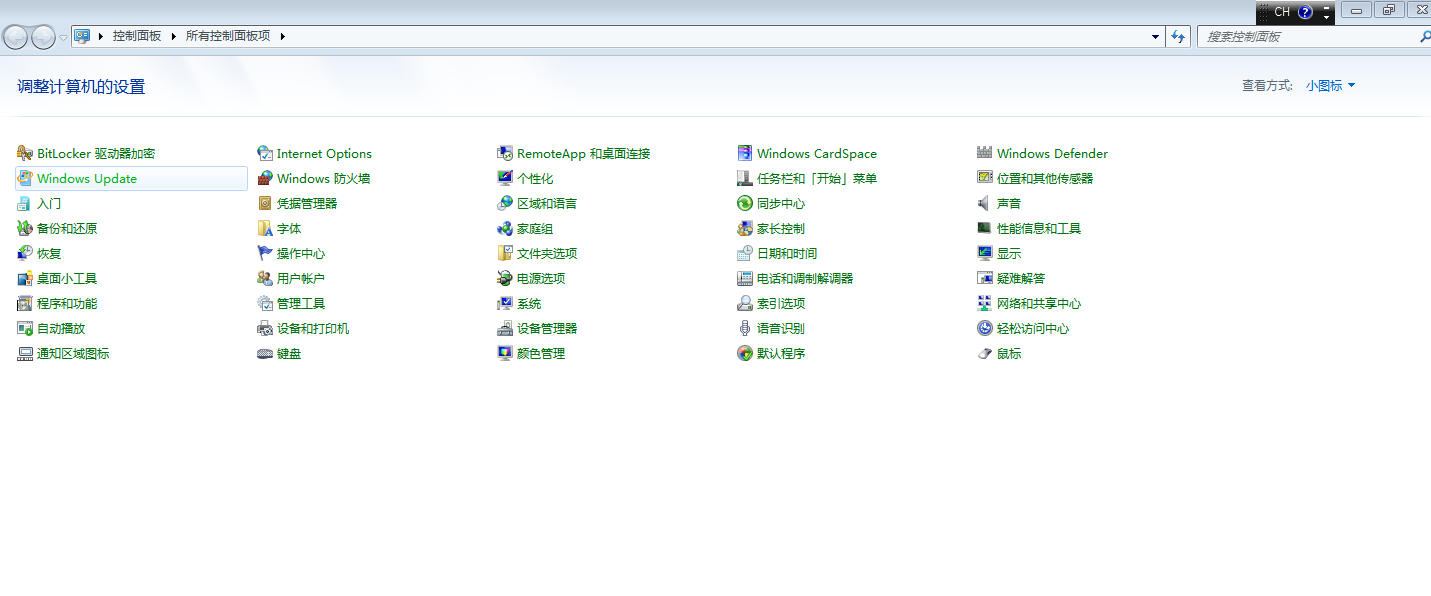
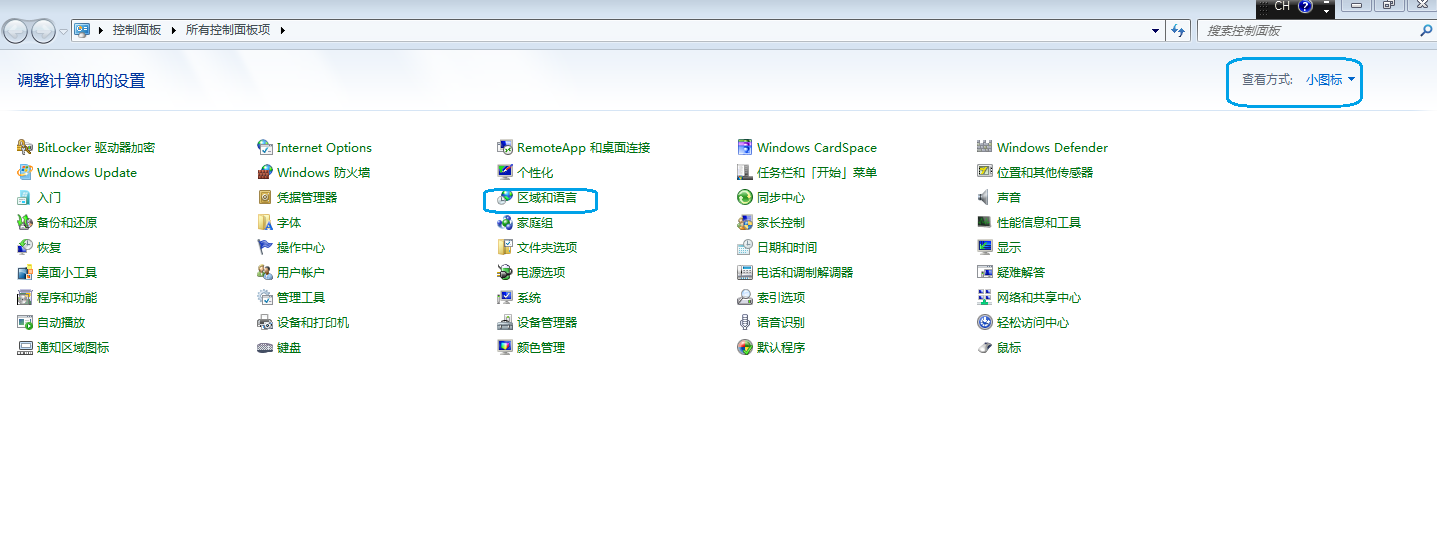
IE

diff --git a/content/posts/technology/Excel/Excel使用技巧/index.md b/content/posts/technology/Excel/Excel使用技巧/index.md
@@ -37,9 +37,9 @@ cover:
   可以通过Windows控制面板提供的日期、时间、区域格式设置功能来指定需要的日期格式。
   
   * windows7
+   ![img](images/win7-区域和语言.png)
   
-    ![img](images/win7-区域和语言.png)
-    ![img](images/win7-区域和语言-2.png)
+   ![img](images/win7_区域和语言_2.png)
   
   * Windows10
   
